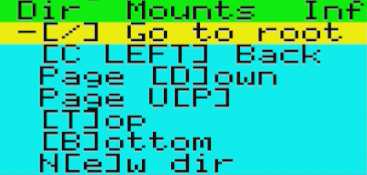
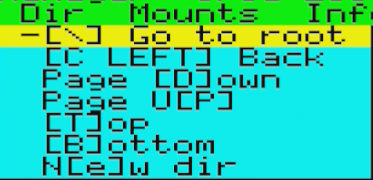
Update readme

diff --git a/src/menu.c b/src/menu.c
@@ -86,7 +86,7 @@ char pulldown_titles[PULLDOWN_NUMBER][PULLDOWN_MAXOPTIONS][PULLDOWN_MAXLENGTH] =
      "[R]ename        ",
      "[C]opy          ",
      "Bro[W]se tape   "},
-    {"[/] Go to root",
+    {"[\\] Go to root",
      "[C LEFT] Back ",
      "Page [D]own   ",
      "Page U[P]     ",

diff --git a/README.md b/README.md
@@ -11,6 +11,12 @@ File manager for the LOCI mass storage device for Oric Atmos
 
 [Start program](#start-program)
 
+[Keyboard commands](#keyboard-commands)
+
+[Main application interface](#main-application-interface)
+
+[Command explanation](#command-explanation)
+
 [Credits](#credits)
 
 ![LOCI FM Main Interface](https://github.com/xahmol/locifilemanager/blob/main/screenshots/LociFM%20-%20main%20interface.png?raw=true)
@@ -27,7 +33,7 @@ Version 0.1.0:
 ## Introduction
 ([Back to contents](#contents))
 
-LOCI Filemanager is a filemanager to be used with the great LOCI mass storage device for the Oric Atmos.
+LOCI File Manager is a file manager to be used with the great LOCI mass storage device for the Oric Atmos.
 
 For more information about the LOCI:
 https://github.com/sodiumlb/loci-hardware/wiki/LOCI-User-Manual
@@ -36,14 +42,14 @@ Features of this file manager:
 - Browse through both the internal storage of the LOCI as all connected USB mass storage devices
 - Features two browser panes with two independently loaded directories
 - Can copy files (not directories) between panes
-- Cam delete and rename files and directories
+- Can delete and rename files and directories
 - Can create directories
-- Can perform copy and delete based on a user made selection of multiple files
-- Can mount disk, tape and ROM images
+- Can perform copy and delete based on a user-made selection of multiple files
+- Can mount disk, tape, and ROM images
 - On exit boot based on mounted images (disk > tape > ROM)
-- Can browse inside tape image to select file on the tape to mount / boot
-- IJK joystick interface supported: broswing and all menu operation can be done via joystick
-- Both menu as keyboard driven
+- Can browse inside tape image to select file on the tape to mount/boot
+- IJK joystick interface supported: browsing and all menu operations can be done via joystick
+- Both menu and keyboard driven
 - Source fully public, includes LOCI API lib for own projects
 
 ## Requirements
@@ -56,18 +62,252 @@ Minimum requirements:
 ## Start program
 ([Back to contents](#contents))
 - Download the latest build of the 'locifm.tap' file from [here](https://github.com/xahmol/locifilemanager/raw/refs/heads/main/BUILD/locifm.tap).
-- Save image on the desired location on the USB stick you want to use for your LOCI device and connect that USB (back) into the LOCI device
-- Go to the LOCI user interface by pressing the red button on the LOCI. You shluld get the LOCI interface like this:
+- Save the image on the desired location on the USB stick you want to use for your LOCI device and connect that USB (back) into the LOCI device
+- Go to the LOCI user interface by pressing the red button on the LOCI. You should get the LOCI interface like this:
 ![LOCI UI Start program](https://github.com/xahmol/locifilemanager/blob/main/screenshots/LociFM%20-%20start%20program.png?raw=true)
 - Go to the field to select tape images by pressing T (or go there via cursor keys)
 - Press SPACE to go to the file browser
 - Navigate to the location on your USB stick where you have stored the 'locifm.tap' file.
 - Select by SPACE
-- Boot into application by pressing ESC.
+- Boot into the application by pressing ESC.
 - If the Auto load option of the LOCI is enabled, loading from tape will start automatically. If not, press CLOAD" and RETURN.
 - The program should now load and start.
+- If no LOCI is detected, or the connected LOCI has a lower than supported firmware version the program will give an error message and exit.
 
 For details on how to operate your LOCI device, see the [LOCI manual](https://github.com/sodiumlb/loci-hardware/wiki/LOCI-User-Manual).
+
+## Keyboard commands
+([Back to contents](#contents))
+
+### In file browser pane:
+
+|Key|Description
+|---|---|
+|**Cursor Up / Down**|Move down or up in the file browser pane
+|**Cursor Left**|Go to parent directory
+|**Cursor Right**|Go to main menu
+|**RETURN**|Perform action selected for RETURN button: Select, mount or launch a file.
+|**ESC**|Exit application and boot to mounted image(s)
+|**.**|Go to next available LOCI drive for the active pane
+|**,**|Go to previous available LOCI drive for the active pane
+|**/**|Switch the active pane to the other pane
+|**\\**|Go to the root directory of the drive in the active pane
+|**D**|Page **d**own in the file browser pane
+|**P**|Page u**p** in the file browser pane
+|**T**|Go to **t**op: first entry in the file browser pane
+|**B**|Go to **b**ottom: last entry in the file browser pane
+|**S**|Toggle if file is **s**elected or not.
+|**A**|Select **a**ll files in the active file browser pane
+|**N**|Select **n**one of the files, so deselect all, in file browser pane
+|**I**|**I**nverse selection in file browser pane
+|**O**|Toggle if directories are alphabetically s**o**rted or not
+|**F**|Select which **F**ilter to apply for showing directory entries or disable filtering.
+|**C**|**C**opy present file or all selected files from directory in active pane to directory in non-active pane
+|**DEL**|**Del**ete present file or directory (if empty)
+|**G**|Select tar**g**et disk drive for disk images to mount to.
+|**R**|**R**ename present file or directory
+|**M**|**M**ount present file to disk, tape or ROM.
+|**U**|Select which drive, tape or ROM should be **u**nmounted.
+|**W**|Start bro**w**sing inside a tape image from present .TAP file
+|**E**|Create n**e**w directory
+|**H**|Show **h**elp screen for keyboard commands
+
+### In main menu and pulldown menus
+
+|Key|Description
+|---|---|
+|**Cursor Up / Down**|Move down or up in the pulldown menu options
+|**Cursor Left / Right**|Go to left or right in main menu.
+|**RETURN**|Select option.
+|**ESC**|Cancel (if allowed)
+
+### Joystick direction mapping to keyboard commands
+
+The left, right, down, up joystick directions are translated to the corresponding cursor keys and invoke the same commands.
+The fire button invokes the same action as the RETURN key.
+
+## Main application interface
+([Back to contents](#contents))
+
+After application start, the main application interface looks similar to:
+![LOCI FM Main Interface](https://github.com/xahmol/locifilemanager/blob/main/screenshots/LociFM%20-%20main%20interface.png?raw=true)
+
+Top line of the screen is a header showing application name, followed by the identification and firmware version string of the connected LOCI device.
+
+Second line is the main menu bar. Go there by pressing the **Cursor Right** key or push right on your joystick.
+
+Below are two panes, both representing a directory on a LOCI provided storage drive ID. The pane shown in yellow is the active pane, white the non-active.
+First line of both panes is the name identification of the drive from which a directory is shown, second line shows the active path of the directory shown, of which the first number is the drive ID number. 0 is internal storage, 1 to 9 the USB mass storage devices connected to the LOCI.
+
+Below are the directory entries, shown per page of 10. First the name, to the right the type:
+- DSK: Disk image
+- TAP: Tape image
+- ROM: ROM image
+- LCE: LOCI Executable (not yet implemented)
+- DIR: Directory
+- spaces: unknown type
+
+In the active pane, in cyan the present entry is highlighted. This can be moved up and down by pressing cursor keys or joystick. Also page up/down is supported, just as go to top or bottom.
+Based on the selected present files all commands are executed.
+Reference is made to the [Keyboard commands](#keyboard-commands) section above for available keyboard commands, see [Command explanation](#command-explanation) for explanation of what all commands do and how they should be operated, sorted by the different main menu options.
+
+## Command explanation
+([Back to contents](#contents))
+
+### App: Application options
+
+![Application menu](https://github.com/xahmol/locifilemanager/blob/main/screenshots/LociFM%20-%20menu%20-%20app.png?raw=true)
+
+*Confirm*
+
+Confirm is a toggle that decides if an 'are you sure' popup is shown, to confirm either a delete or a copy with overwrite action, once or on every individual file separately. Default is Once.
+
+This function can be reached via the menu only.
+
+*Return*
+
+![App: Return](https://github.com/xahmol/locifilemanager/blob/main/screenshots/LociFM%20-%20menu%20-%20app%20-%20return.png?raw=true)
+
+Selects which action should be performed when pressing RETURN:
+- Select: Toggles if the file is selected or not on pressing **RETURN**, so **RETURN** will behave as the **S** key. Default option.
+- Mount: File will be mounted on pressing **RETURN**, so **RETURN** will behave as the **M** key.
+- Launch: File will be launched on pressing **RETURN**. This means that all other mounts will be unmounted, present file will be mounted, and application will be exited to boot to this mount. **RETURN** in this case will behave as pressing first the **U** key for every active mount, then the **ESC** key.
+
+This function can be reached via the menu only.
+
+*Filter*
+
+![App: Filter](https://github.com/xahmol/locifilemanager/blob/main/screenshots/LociFM%20-%20menu%20-%20app%20-%20filter.png?raw=true)
+
+Selects which filter to apply when showing directories:
+- None: No filter applied
+- .DSK: Only .DSK disk images shown
+- .TAP: Only .TAP tape images shown
+- .ROM: Only .ROM rom images shown
+- .LCE: Only LOCI Executables shown (not yet implemented as .LCE format is to be designed)
+
+This function can be reached also by pressing the **F** key.
+
+*Sort*
+
+Toggle if sorting of directory entries is enabled or not.
+
+**NB**: Sorting can be very slow on large directories, so beware of switching it on on those large directories. Also for this reason, default is Off.
+
+This function can be reached also by pressing the **O** key.
+
+*Exit*
+
+![App: Exit](https://github.com/xahmol/locifilemanager/blob/main/screenshots/LociFM%20-%20menu%20-%20app%20-%20exit.png?raw=true)
+
+Application will exit and boot based on the active mounts (drive A > .TAP > ROM).
+
+Autostarting from .TAP images is enabled.
+
+This function can be reached also by pressing the **ESC** key.
+
+### File: File operations
+
+![File menu](https://github.com/xahmol/locifilemanager/blob/main/screenshots/LociFM%20-%20menu%20-file.png?raw=true)
+
+*Select toggle*
+
+Toggles if presently highlighted file is selected or not. Selected files will be shown with a - before their name like in the screenshot below.
+
+This function can be reached also by pressing the **S** key.
+
+![File: Select](https://github.com/xahmol/locifilemanager/blob/main/screenshots/LociFM%20-%20menu%20-file%20-%20select.png?raw=true)
+
+*Select all*
+
+Selects all files in the present pane. This function can be reached also by pressing the **A** key.
+
+*Select none*
+
+Deselects all files in the present pane. This function can be reached also by pressing the **N** key.
+
+*Inverse select*
+
+Inverses the selection of files in the present pane. This function can be reached also by pressing the **I** key.
+
+*Delete*
+
+Deletes the present file or directory. Or, if a selection of files is made, all selected files.
+
+A popup will ask for confirmation (based on the application configuration setting for Confirm in the App menu, only once, or for every file), after which deletion will proceed. Press key to return.
+
+This function will also delete a directory, but:
+- A directory must be empty, otherwise an error message will be shown. Recursive directory delete is not (yet) implemented.
+- Directories can not be selected, so deletion of directories has to be performed one by one.
+
+This function can be reached also by pressing the **DEL** key.
+
+![File: Delete](https://github.com/xahmol/locifilemanager/blob/main/screenshots/LociFM%20-%20menu%20-file%20-%20delete.png?raw=true)
+
+*Rename*
+
+Renames the present file or directory.
+
+A popup will appear to edit the name. Cursor keys and DEL key are supported in editing. Press RETURN to accept, ESC to cancel.
+
+This function can be reached also by pressing the **R** key.
+
+![File: Rename](https://github.com/xahmol/locifilemanager/blob/main/screenshots/LociFM%20-%20menu%20-file%20-%20rename.png?raw=true)
+
+*Copy*
+
+Copies the present file. Or, if a selection of files is made, all selected files. Copying directories with or without content is not (yet) implemented.
+
+Copy will be performed from the directory in the active pane to the directory in the non-active pane. You can not copy to the same directory, in this case an error message will be shown:
+
+![File: Copy - error same dir](https://github.com/xahmol/locifilemanager/blob/main/screenshots/LociFM%20-%20menu%20-file%20-%20copy%20-%20same%20dir.png?raw=true)
+
+If file(s) with the same name already exist, a popup will ask for confirmation to overwrite the files in the target directory (based on the application configuration setting for Confirm in the App menu, only once, or for every file).
+
+![File: Copy - confirm overwrite](https://github.com/xahmol/locifilemanager/blob/main/screenshots/LociFM%20-%20menu%20-file%20-%20copy%20-%20confirm.png?raw=true)
+
+Otherwise a popup will appear showing copy progress. Pressing **ESC** can cancel file copying after finishing copying the present file. Mid-file copy cancellation is not (yet) implemented.
+
+![File: Copy](https://github.com/xahmol/locifilemanager/blob/main/screenshots/LociFM%20-%20menu%20-file%20-%20copy.png?raw=true)
+
+This function can be reached also by pressing the **C** key.
+
+*Browse tape*
+
+Enables browsing within a .TAP tape image. Obviously only works if the present highlighted directory entry is identified as type TAP.
+
+Selecting first mounts the tape image. This popup is shown, press key to continue:
+
+![File: Browse tape - mount message](https://github.com/xahmol/locifilemanager/blob/main/screenshots/LociFM%20-%20menu%20-file%20-%20browse%20tape%20-%20mount.png?raw=true)
+
+
+Then the active pane of the browser will look like this:
+
+![File: Browse tape](https://github.com/xahmol/locifilemanager/blob/main/screenshots/LociFM%20-%20menu%20-file%20-%20browse%20tape%20-%20browse.png?raw=true)
+
+First line now shows Tape: to indicate you are inside a tape image, followed by the name of the tape image. Second line is still the active path to the tape image.
+
+As directory entries now the files within the tape image are shown, starting with the name (if any), followed by the start address and size, finally the detected tape: BAS for a BASIC file, BIN for all others.
+
+Inside a tape the copy, delete and rename functions do not operate (not possible, or not (yet) implemented). Therefore selecting files also does not work.
+
+Only thing that does work in browsing tape is moving to the desired file inside a tape by pressing **RETURN**. This will give this popup:
+
+![File: Browse tape - move to file](https://github.com/xahmol/locifilemanager/blob/main/screenshots/LociFM%20-%20menu%20-file%20-%20browse%20tape%20-%20mount%20file%20on%20tape.png?raw=true)
+
+Go back to the normal directory by pressing **Cursor Left** (or joystick left).
+
+This function can be reached also by pressing the **W** key.
+
+### Dir: Directory navigation and operations
+
+![Dir menu](https://github.com/xahmol/locifilemanager/blob/main/screenshots/LociFM%20-%20menu%20-%20dir.png?raw=true)
+
+*Go to root*
+
+Go to the root directory of the drive in the active pane. This function can be reached also by pressing the **\\** key.
+
+
 
 ## Credits
 ([Back to contents](#contents))
